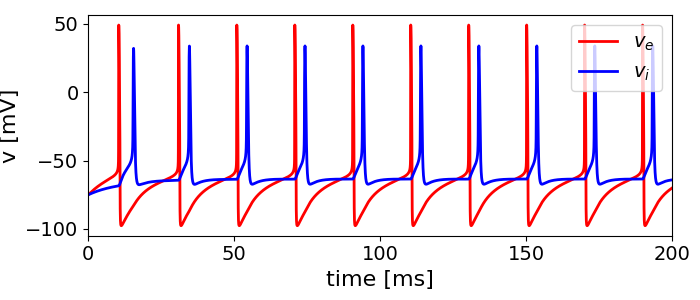
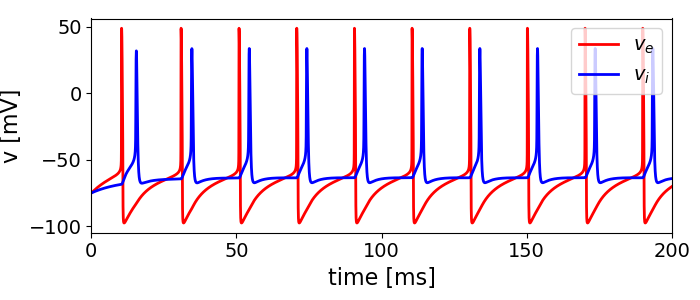
2_CELL_PING modified.

diff --git a/python/30_The_PING_Model_of_Gamma_Rhythms/2_CELL_PING/main.py b/python/30_The_PING_Model_of_Gamma_Rhythms/2_CELL_PING/main.py
@@ -46,6 +46,12 @@ if __name__ == "__main__":
     v_e = sol[:, 0]
     v_i = sol[:, 5]
 
+    eSpikes = lib.spikeDetection(t, v_e, -20.0)
+    period = eSpikes[-1] - eSpikes[-2]
+    print "Period of E neuron %10.3f ms" % period
+
+
+
     pl.figure(figsize=(7, 3))
     pl.plot(t, v_e, lw=2, c="r", label=r"$v_e$")
     pl.plot(t, v_i, lw=2, c="b", label=r"$v_i$")
@@ -54,7 +60,7 @@ if __name__ == "__main__":
     pl.xlabel("time [ms]", fontsize=16)
     pl.ylabel("v [mV]", fontsize=16)
     pl.legend(fontsize=14, loc="upper right")
-    pl.xticks(range(0, 250, 50))
+    pl.xticks(range(0, int(t_final) + 1, 50))
     pl.tight_layout()
     pl.tick_params(labelsize=14)
 

diff --git a/python/30_The_PING_Model_of_Gamma_Rhythms/2_CELL_PING/lib.py b/python/30_The_PING_Model_of_Gamma_Rhythms/2_CELL_PING/lib.py
@@ -142,5 +142,19 @@ def derivative(x0, t):
                      dv_i, dh_i, dn_i, dq_i, ds_i])
 
 
+def spikeDetection(t, V, spikeThreshold):
+    tSpikes = []
+    v = np.asarray(V)
+    nSteps = len(V)
+
+    for i in range(1, nSteps):
+        if (V[i - 1] <= spikeThreshold) & (V[i] > spikeThreshold):
+            
+            ts = ((i - 1) * dt * (V[i - 1] - spikeThreshold) +
+                        i * dt * (spikeThreshold - V[i])) / (V[i - 1] - V[i])
+            tSpikes.append(ts)
+    return tSpikes
+
 tau_dq_e = tau_d_q_function(tau_d_e, tau_r_e, tau_peak_e)
 tau_dq_i = tau_d_q_function(tau_d_i, tau_r_i, tau_peak_i)
+
